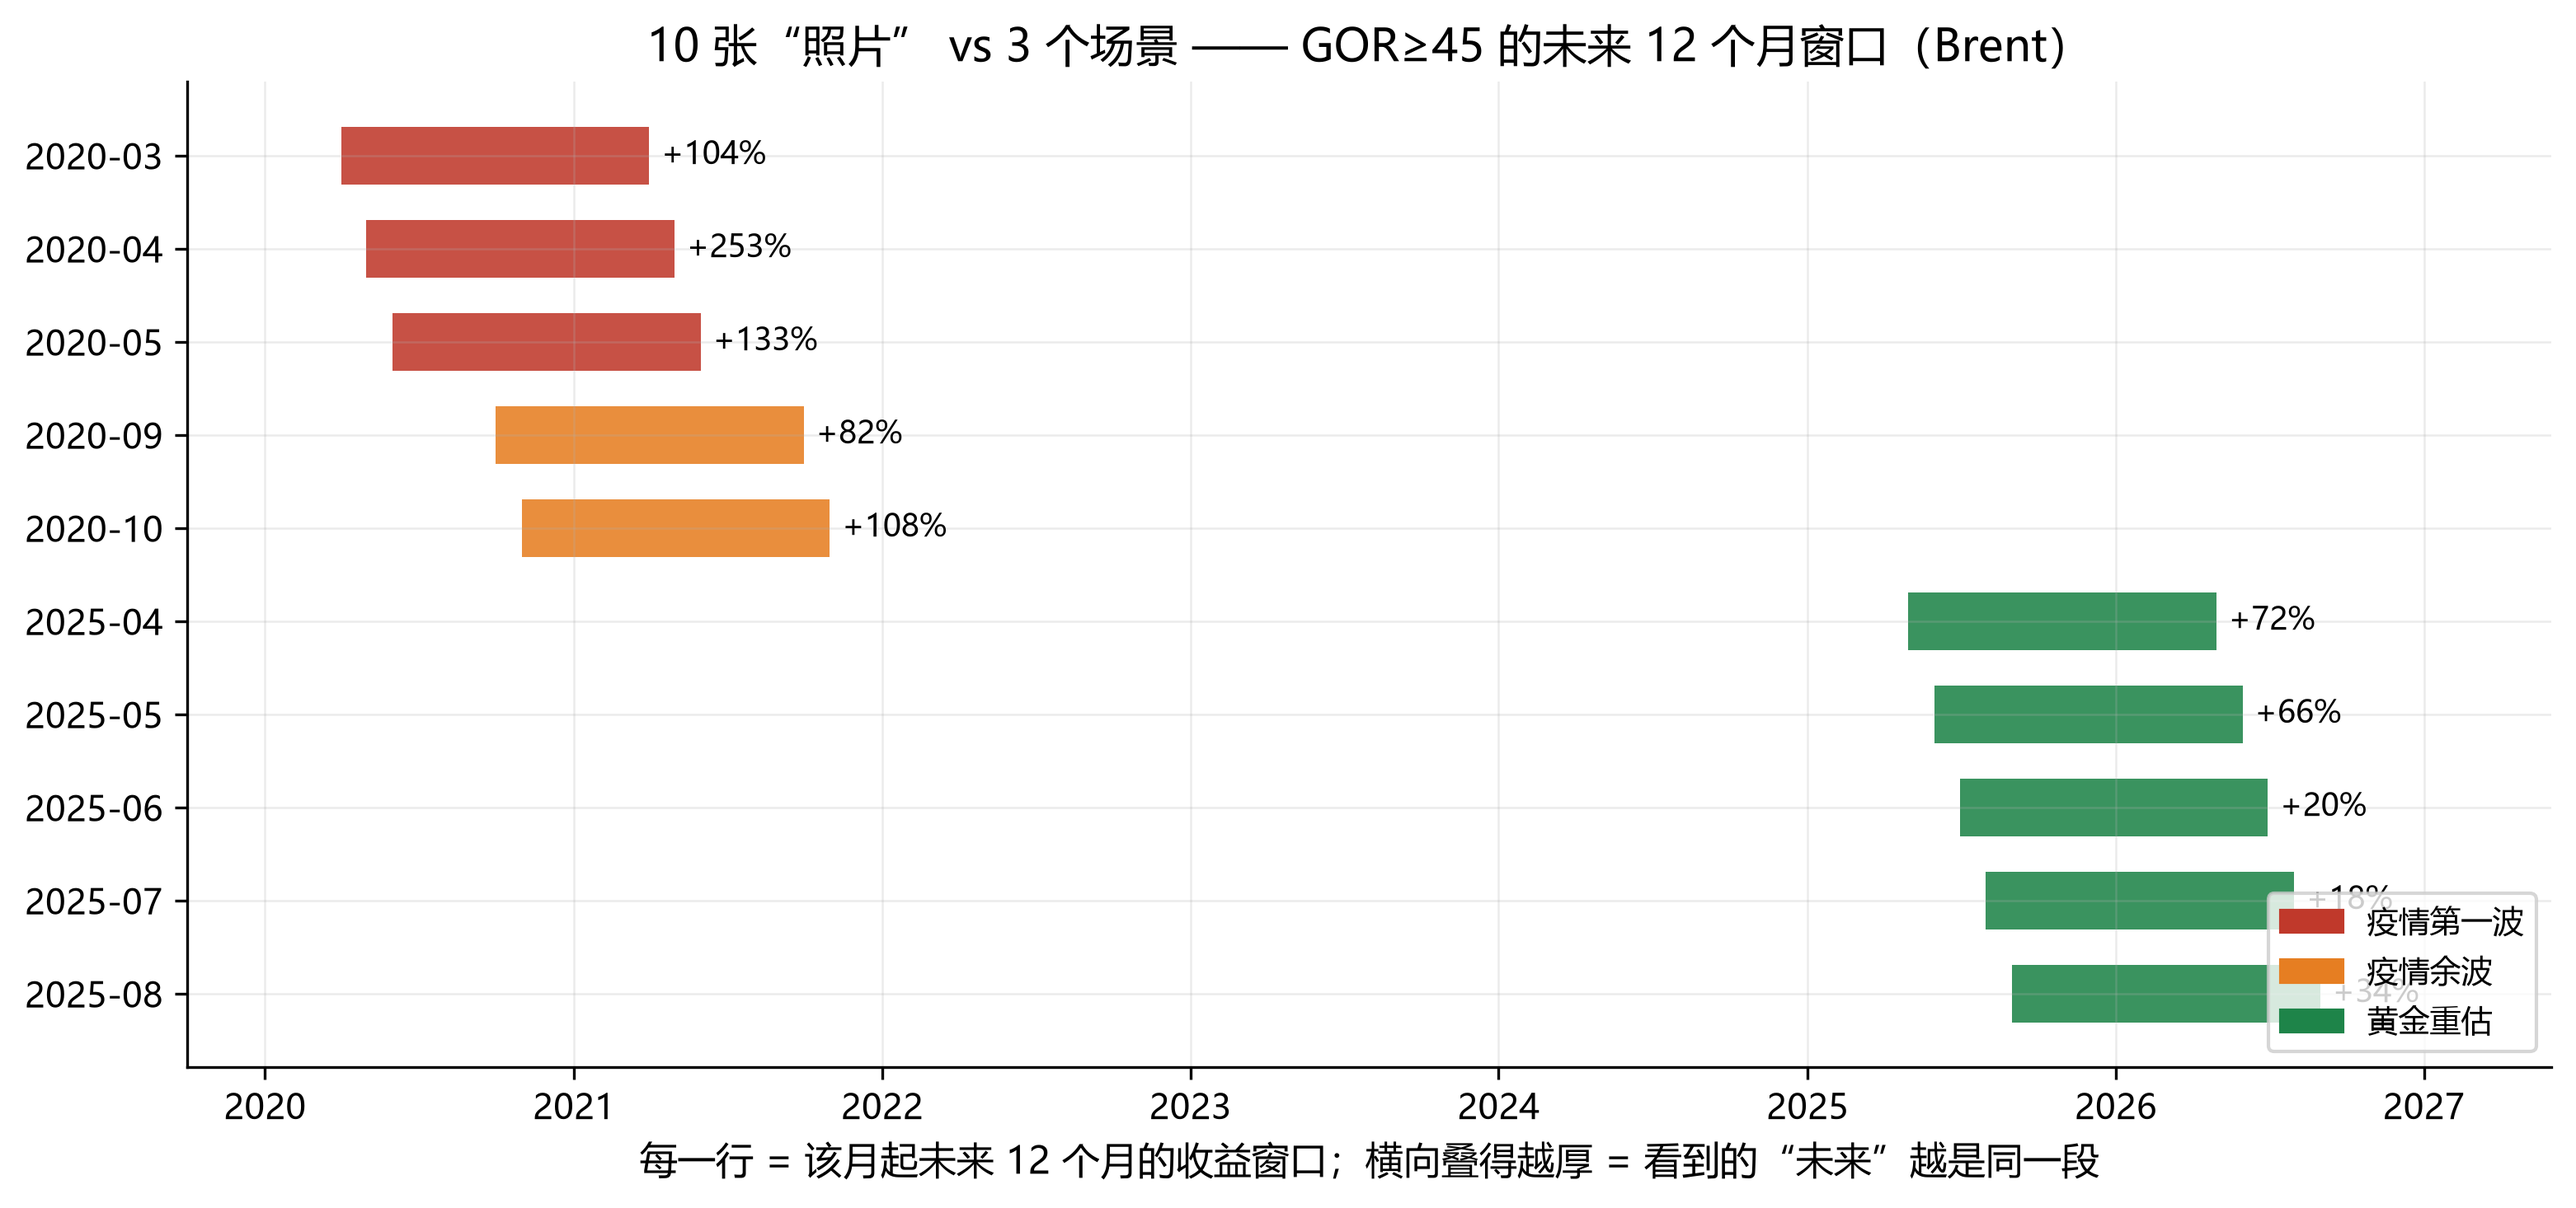
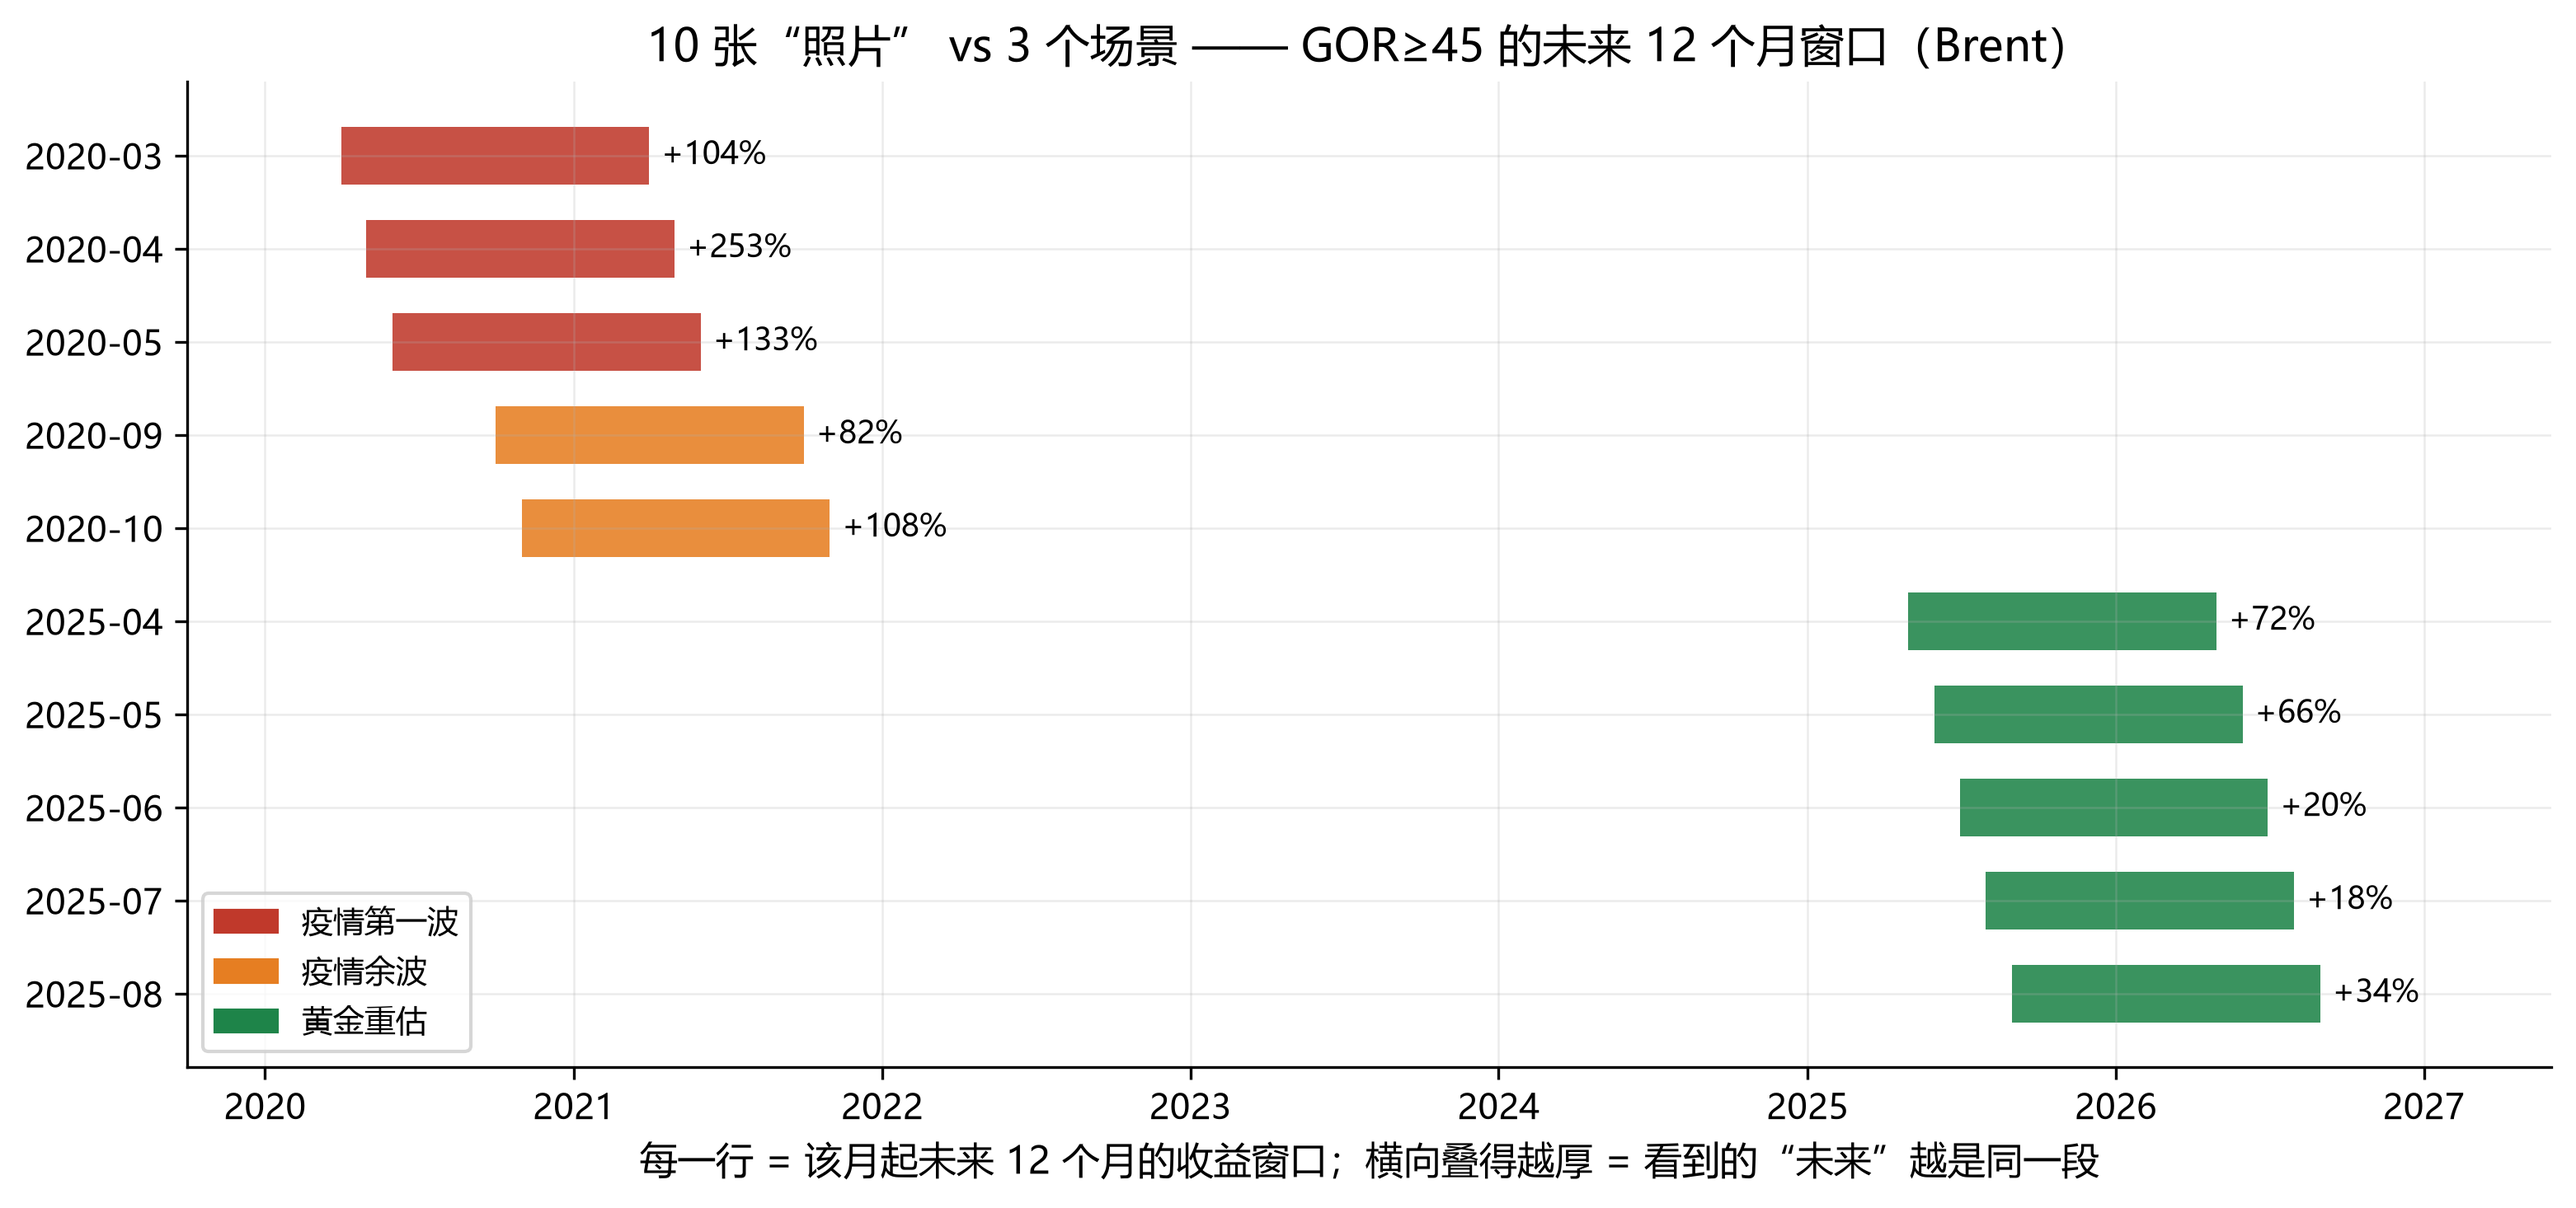
L1 演示图：图例移至空白区（微调）

Changed region(s): [[0.0621, 0.7367, 0.1863, 0.8595], [0.8694, 0.7367, 0.9936, 0.8595]]

diff --git a/lessons/L1-指标可靠性/scripts/extra_overlap_demo.py b/lessons/L1-指标可靠性/scripts/extra_overlap_demo.py
@@ -110,7 +110,7 @@ def main():
     ax.set_title("10 张“照片” vs 3 个场景 —— GOR≥45 的未来 12 个月窗口（Brent）")
     ax.set_xlabel("每一行 = 该月起未来 12 个月的收益窗口；横向叠得越厚 = 看到的“未来”越是同一段")
     ax.legend(handles=[Patch(color=c, label=k) for k, c in colors.items()],
-              loc="lower right", fontsize=9)
+              loc="lower left", fontsize=9)
     fig.tight_layout()
     save(fig, "extra_overlap_demo")
 
